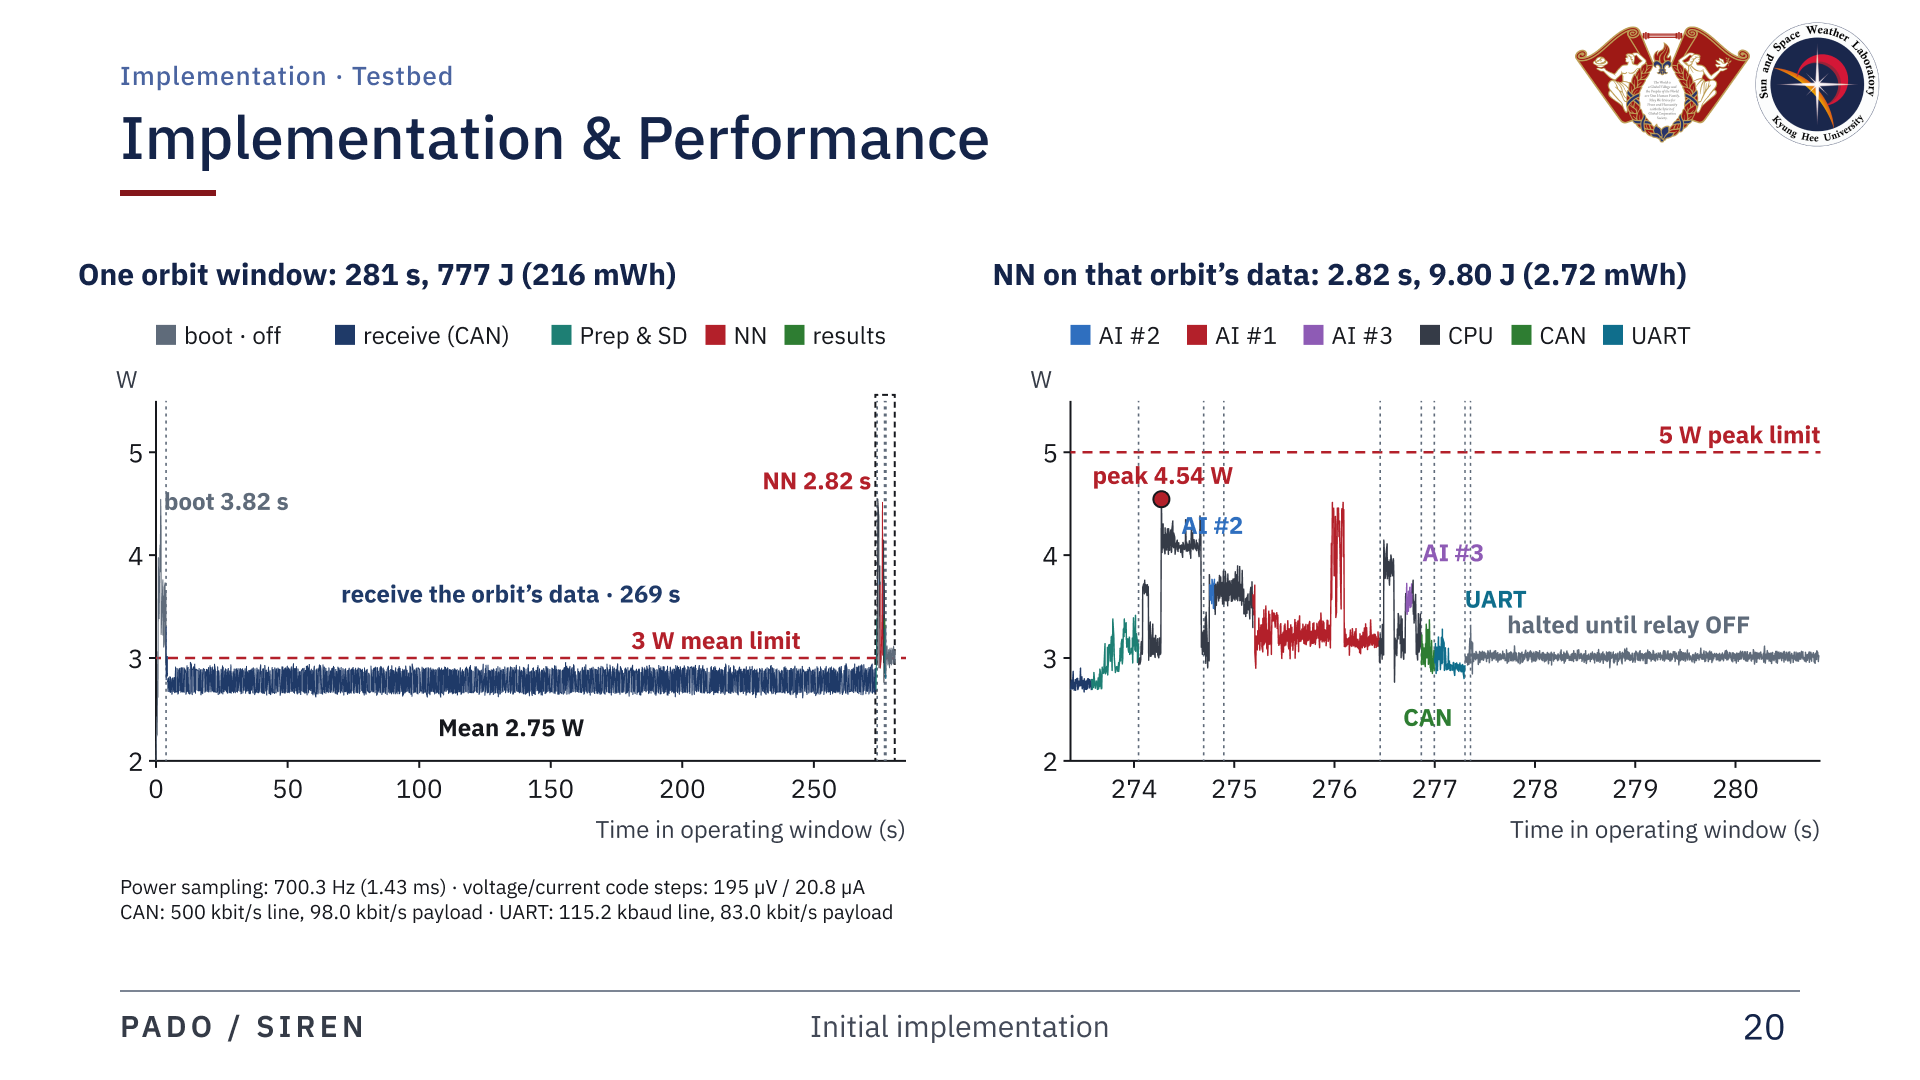
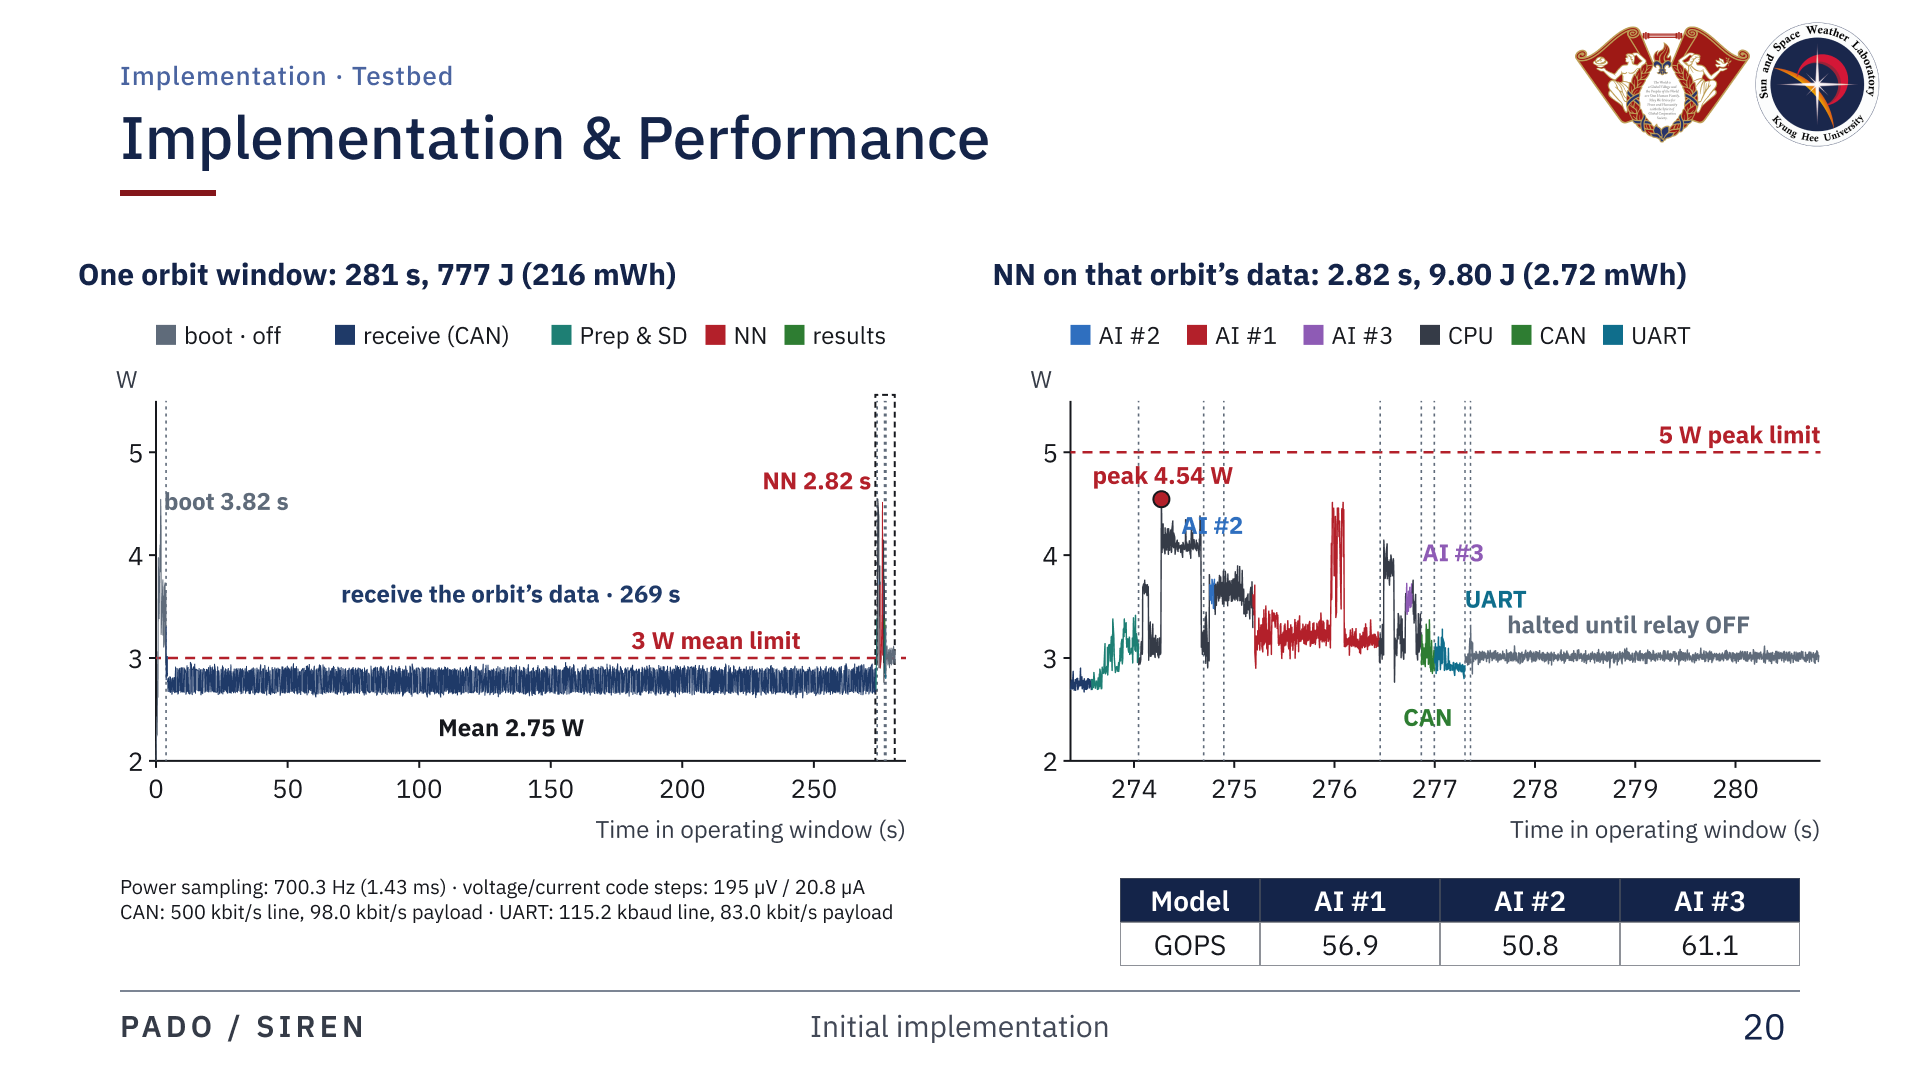
edit

Changed region(s): [[0.5625, 0.7944, 0.9375, 0.8861]]

diff --git a/README.md b/README.md
@@ -36,7 +36,7 @@ PADO-SAT의 온보드 AI 탑재체 SIREN 발표 자료입니다.
 
 ### 08. SIREN-PADO SAT Interfaces
 
-![Slide 08: SIREN-PADO SAT Interfaces](assets/slides/08.png?v=21f59d8b4a02)
+![Slide 08: SIREN-PADO SAT Interfaces](assets/slides/08.png?v=27d495914069)
 
 ### 09. Development & Validation of AI
 
@@ -84,7 +84,7 @@ PADO-SAT의 온보드 AI 탑재체 SIREN 발표 자료입니다.
 
 ### 20. Implementation & Performance
 
-![Slide 20: Implementation & Performance](assets/slides/20.png?v=249701353b52)
+![Slide 20: Implementation & Performance](assets/slides/20.png?v=a45845e4fe7f)
 
 ### 21. Future Work and Summary
 
@@ -92,7 +92,7 @@ PADO-SAT의 온보드 AI 탑재체 SIREN 발표 자료입니다.
 
 ### 22. Future Work
 
-![Slide 22: Future Work](assets/slides/22.png?v=9c54e7e64db1)
+![Slide 22: Future Work](assets/slides/22.png?v=2405ac9f2ecf)
 
 ### 23. Summary
 
